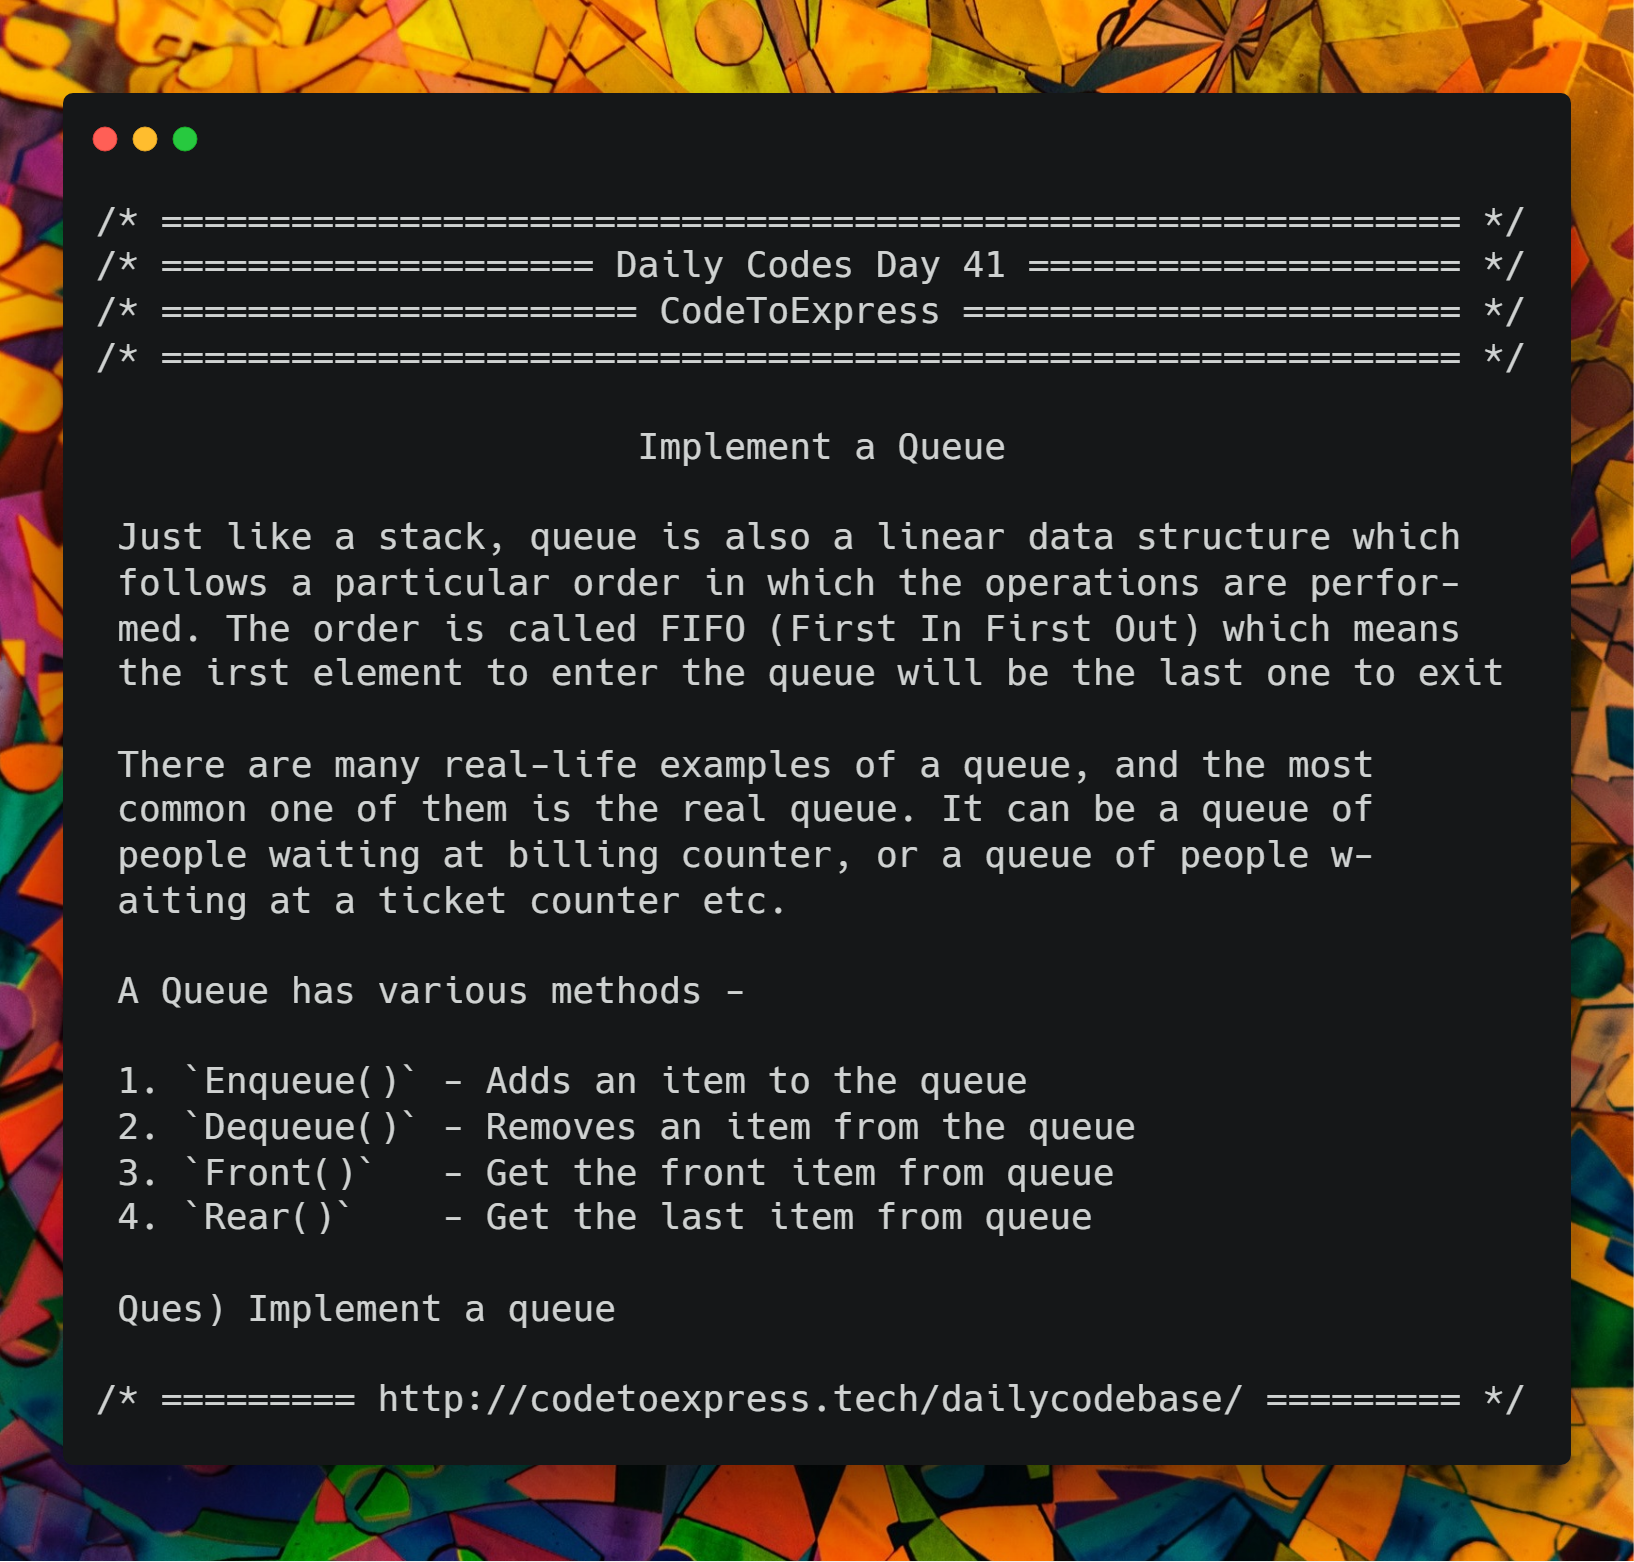
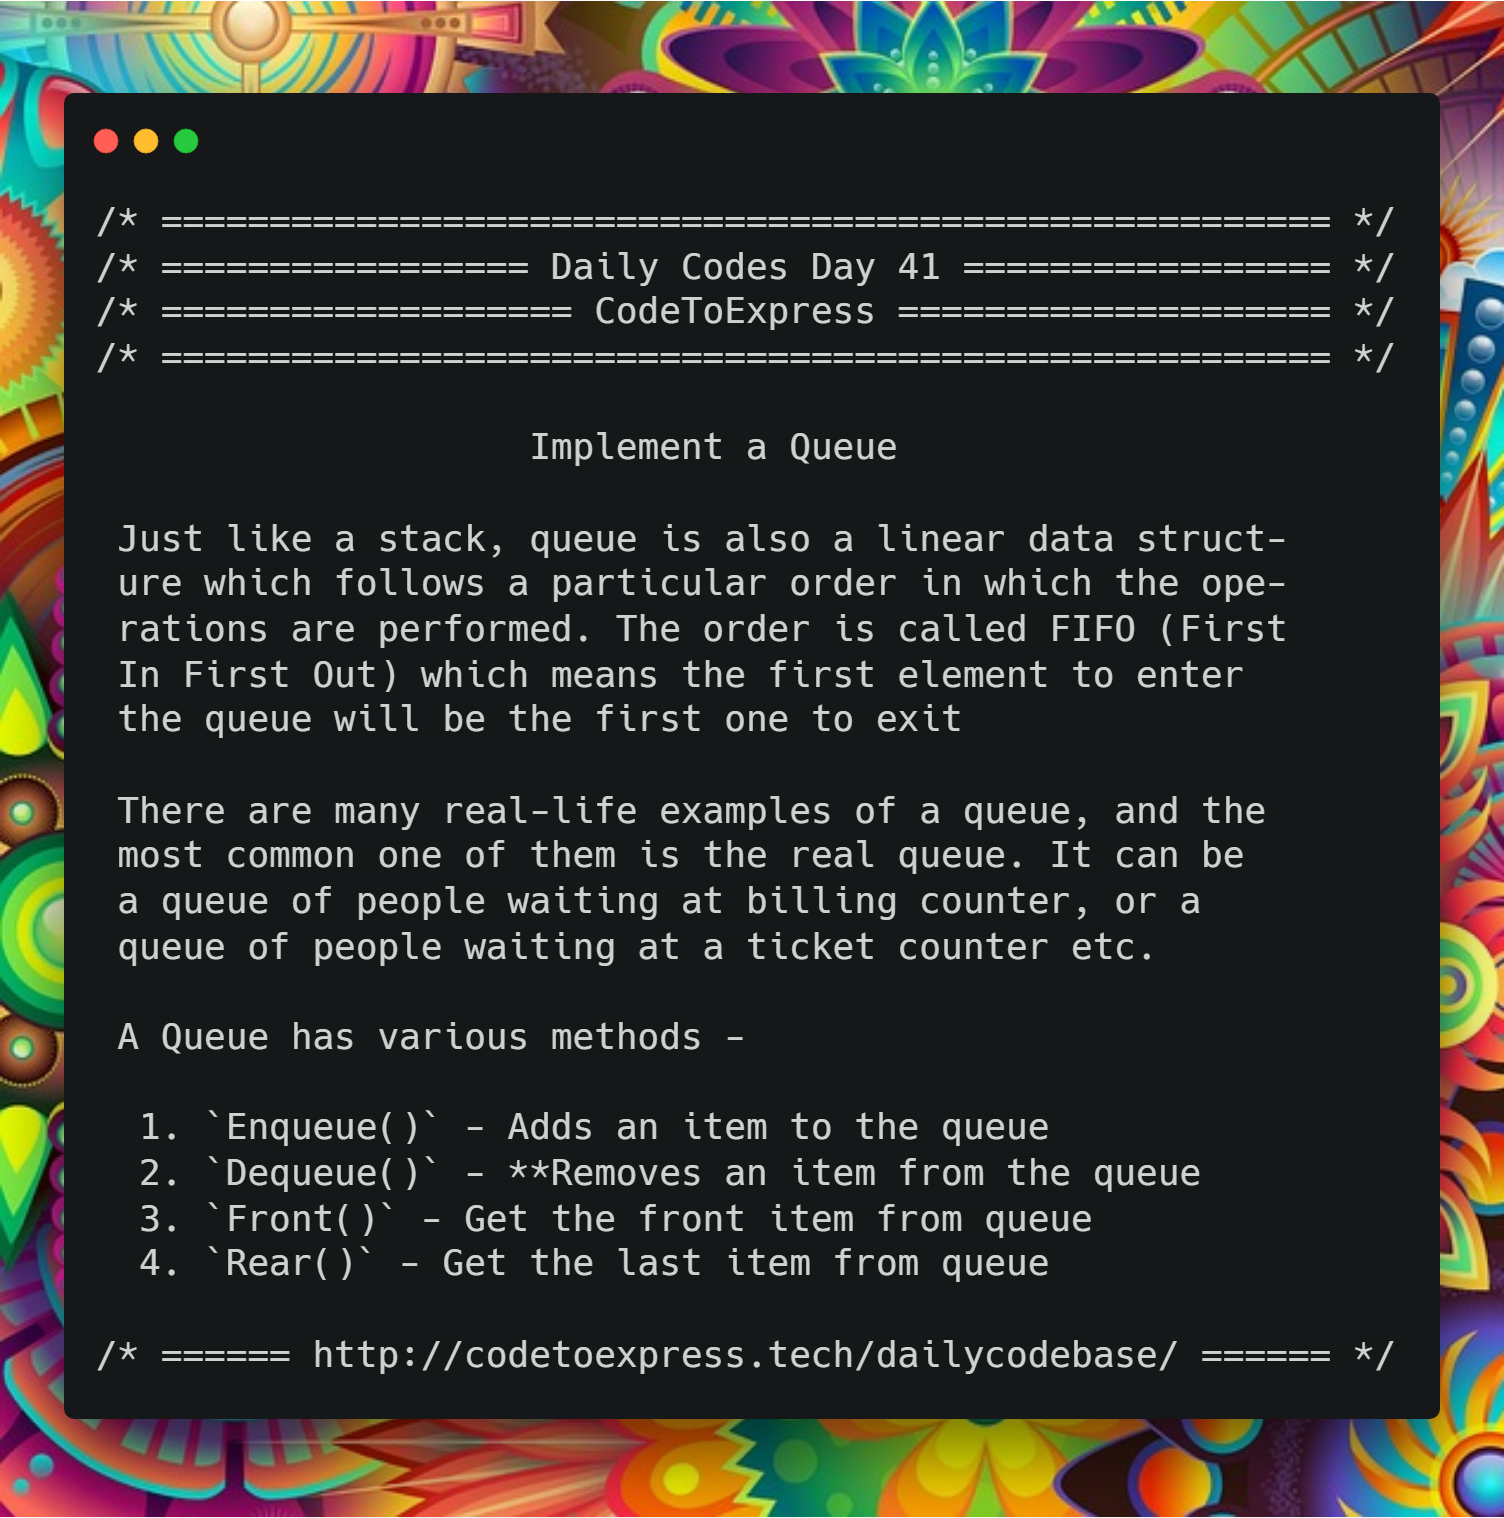
Add day 46 - deque

diff --git a/day46/JavaScript/deque.js b/day46/JavaScript/deque.js
@@ -1,0 +1,1 @@
+// To Be Added

diff --git a/README.md b/README.md
@@ -69,10 +69,11 @@ Motivate yourself to code daily till 60 days, and see the magic! Coding will bec
 | [Day 39](./day39) | [Maximum Element and Reverse Stack](./day39) | [http://codetoexpress.tech/dc/day39/](http://codetoexpress.tech/dc/day39/) | **Intermediate** |
 | [Day 40](./day40) | [Prefix, Infix, Postfix Conversion](./day40) | [http://codetoexpress.tech/dc/day40/](http://codetoexpress.tech/dc/day40/) | **Intermediate** |
 | [Day 41](./day41) | [Implement Queue Data Structure](./day41) | [http://codetoexpress.tech/dc/day41/](http://codetoexpress.tech/dc/day41/) | **Beginner** |
-| [Day 42](./day42) | [Alternate Queue Combination](./day42) | [http://codetoexpress.tech/dc/day42/](http://codetoexpress.tech/dc/day42/) | **intermediate** |
-| [Day 43](./day43) | [Queue Reversal](./day43) | [http://codetoexpress.tech/dc/day43/](http://codetoexpress.tech/dc/day43/) | **intermediate** |
+| [Day 42](./day42) | [Alternate Queue Combination](./day42) | [http://codetoexpress.tech/dc/day42/](http://codetoexpress.tech/dc/day42/) | **Intermediate** |
+| [Day 43](./day43) | [Queue Reversal](./day43) | [http://codetoexpress.tech/dc/day43/](http://codetoexpress.tech/dc/day43/) | **Intermediate** |
 | [Day 44](./day44) | [Queue from Stacks](./day44) | [http://codetoexpress.tech/dc/day44/](http://codetoexpress.tech/dc/day44/) | **intermediate** |
-| [Day 45](./day45) | [Priority Queue](./day45) | [http://codetoexpress.tech/dc/day45/](http://codetoexpress.tech/dc/day45/) | **intermediate** |
+| [Day 45](./day45) | [Priority Queue](./day45) | [http://codetoexpress.tech/dc/day45/](http://codetoexpress.tech/dc/day45/) | **Advanced** |
+| [Day 46](./day46) | [Double Ended Queue](./day46) | [http://codetoexpress.tech/dc/day46/](http://codetoexpress.tech/dc/day46/) | **Advanced** |
 
 ## [More Problems](./BONUS/README.md)
 

diff --git a/day46/README.md b/day46/README.md
@@ -1,0 +1,37 @@
+![cover](./cover.png)
+
+# Day 46 - Implement a double ended queue (deque)
+
+Write a program to implement deque (Double Ended Queue)
+
+### Double Ended Queue
+
+Deque or Double Ended Queue is a generalized version of Queue data structure that allows insert and delete at both ends.
+
+### Operations on Deque
+
+Mainly the following four basic operations are performed on queue:
+
+- insertFront(): Adds an item at the front of Deque.
+- insertLast(): Adds an item at the rear of Deque.
+- deleteFront(): Deletes an item from front of Deque.
+- deleteLast(): Deletes an item from rear of Deque.
+
+In addition to above operations, following operations are also supported
+
+- getFront(): Gets the front item from queue.
+- getRear(): Gets the last item from queue.
+- isEmpty(): Checks whether Deque is empty or not.
+- isFull(): Checks whether Deque is full or not.
+
+[Read More (Geeks4Geeks)](https://www.geeksforgeeks.org/deque-set-1-introduction-applications/)
+
+## Solution
+
+## JavaScript Implementation
+
+### [Solution](./JavaScript/deque.js)
+
+```js
+// To Be Added
+```

diff --git a/day41/README.md b/day41/README.md
@@ -2,7 +2,7 @@
 
 # Day 41 - Implement a Queue
 
-Just like a stack, queue is also a linear data structure which follows a particular order in which the operations are performed. The order is called FIFO (First In First Out) which means the first element to enter the queue will be the last one to exit
+Just like a stack, queue is also a linear data structure which follows a particular order in which the operations are performed. The order is called FIFO (First In First Out) which means the first element to enter the queue will be the first one to exit
 
 There are many real-life examples of a queue, and the most common one of them is the real queue. It can be a queue of people waiting at billing counter, or a queue of people waiting at a ticket counter etc.
 
